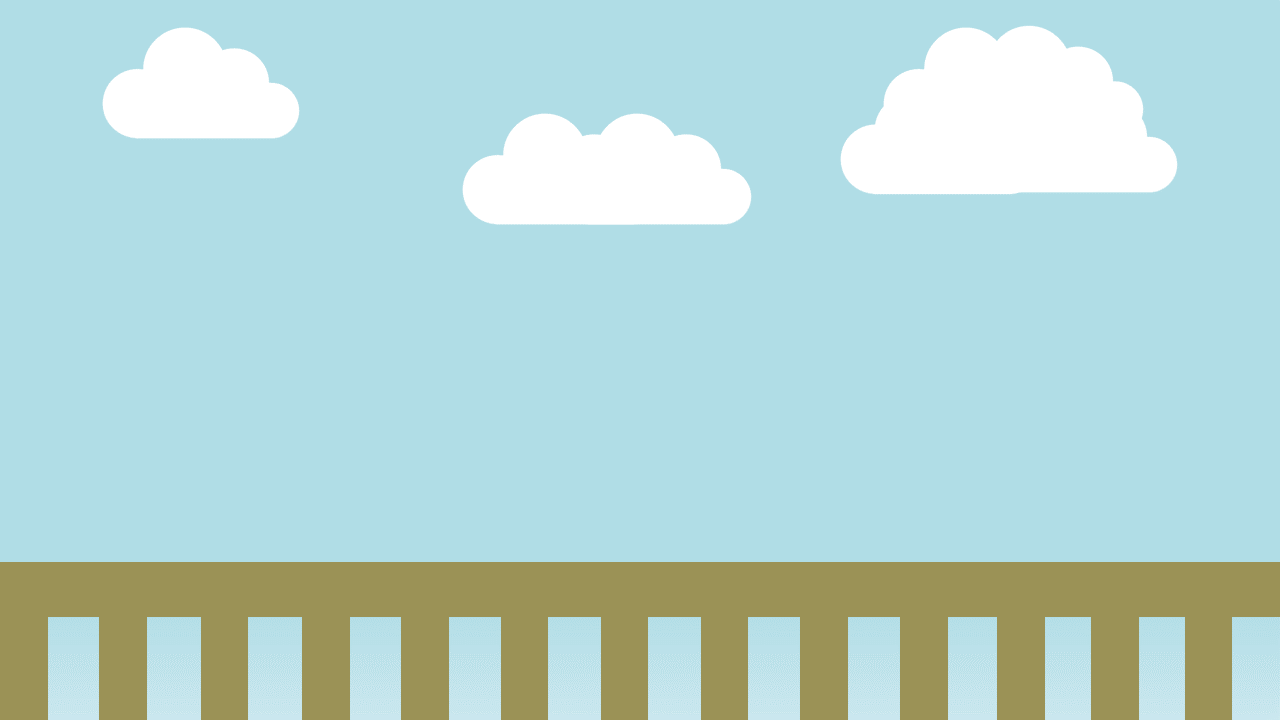
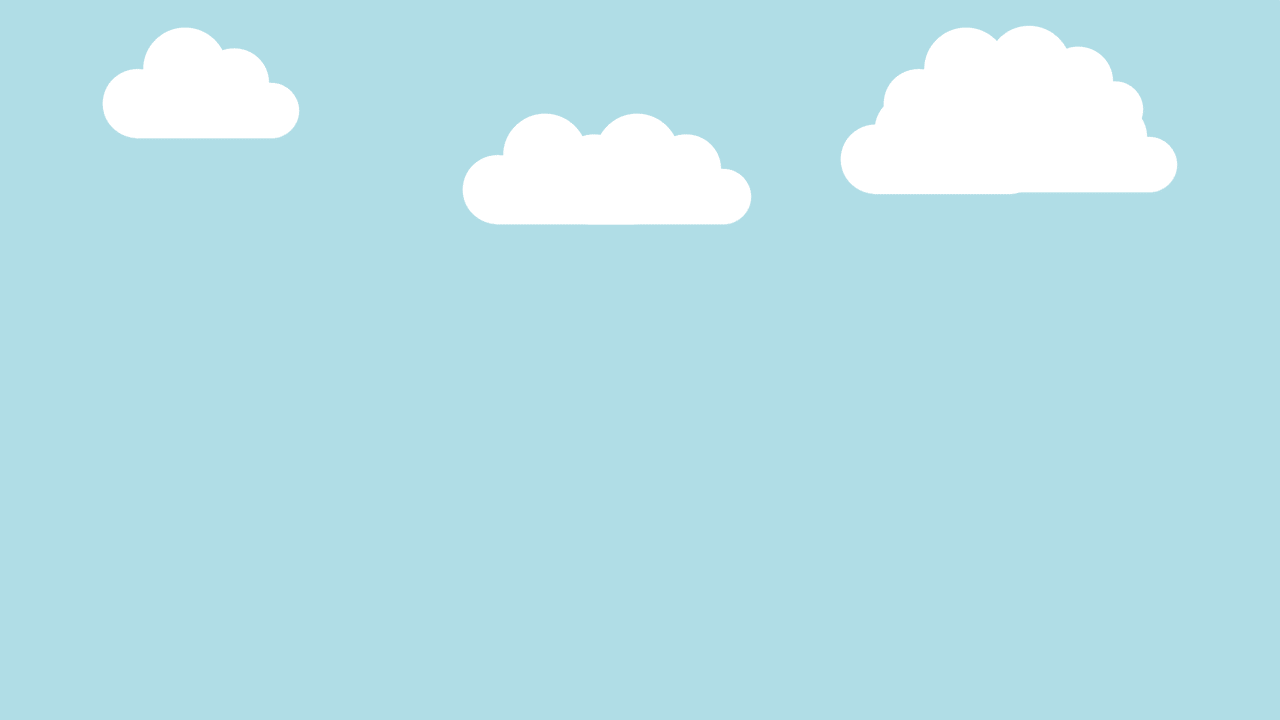
追加

Changed region(s): [[0.0, 0.7639, 1.0, 1.0]]

diff --git a/gametitle.py b/gametitle.py
@@ -9,16 +9,19 @@ WIDTH = 1600
 HEIGHT = 900
 
 
-class Player(pg.sprite.Sprite):
+class Player:
     """
     操作キャラクターに関するクラス
     """
     
     def __init__(self):
-        super().__init__()
         self.imgs = [pg.transform.rotozoom(pg.image.load(f"ex05/fig/run{i}.png"), 0, 0.4) for i in range(1, 3)]
         self.num = 1
-        self.image = self.imgs[self.num]
+        self.img = self.imgs[self.num]
+        width = self.img.get_width()
+        height = self.img.get_height()
+        self.image = pg.Surface((width*3/4, height))
+        pg.Surface.fill(self.image, (100, 100, 100))
         self.rect = self.image.get_rect()
         self.rect.bottom = HEIGHT - 185
         self.rect.centerx = WIDTH/2
@@ -27,7 +30,7 @@ class Player(pg.sprite.Sprite):
         self.jump = False
         self.jump_tmr = 0
     
-    def update(self, screen: pg.Surface, num=0):
+    def update(self, screen: pg.Surface):
         if self.jump:
             if self.jump_tmr < 20: 
                 self.rect.move_ip(0, -15)
@@ -37,14 +40,14 @@ class Player(pg.sprite.Sprite):
             if self.jump_tmr >= 40:
                 self.jump = False
                 self.jump_tmr = 0
-            screen.blit(self.image, self.rect)
+            screen.blit(self.img, self.rect)
                 
         else:
             self.tmr += 1
             if self.tmr % 5 == 0:
                 self.num_r += 1
-                self.image = self.imgs[self.num_r%2]
-            screen.blit(self.image, self.rect)
+                self.img = self.imgs[self.num_r%2]
+            screen.blit(self.img, self.rect)
 
 
 class Object(pg.sprite.Sprite):
@@ -52,10 +55,10 @@ class Object(pg.sprite.Sprite):
     障害物に関するクラス
     """
     
-    def __init__(self, player: pg.Surface):
+    def __init__(self):
         super().__init__()
         self.image = pg.Surface((50, 100))
-        pg.draw.rect(self.image, (0, 0, 0), pg.Rect(0, 0, 50, 100))
+        self.image.fill((0, 0, 0))
         self.rect = self.image.get_rect()
         self.rect.bottom = HEIGHT - 194
         self.rect.left = WIDTH
@@ -63,31 +66,62 @@ class Object(pg.sprite.Sprite):
     def update(self, screen: pg.Surface):
         self.rect.move_ip(-10, 0)
         screen.blit(self.image, self.rect)
+        if self.rect.right < 0:
+            self.kill()
+
+
+class Time:
+    """
+    経過時間を表示するクラス
+    """
+    def __init__(self):
+        self.time = 0
+    
+    def update(self, screen: pg.Surface, tmr: int):
+        self.time = tmr // 50
+        fonto = pg.font.Font(None, 100)
+        if self.time % 10 == 0 and self.time != 0:
+            txt = fonto.render(f"{self.time}", True, (191, 181, 73)) 
+        else:           
+            txt = fonto.render(f"{self.time}", True, (191, 73, 83))
+        screen.blit(txt, [100, 100])
+
 
 
 def main():
     clock = pg.time.Clock()
     pg.display.set_caption("Run on Fence")
     screen = pg.display.set_mode((WIDTH, HEIGHT))
-    bg = pg.transform.rotozoom(pg.image.load("ex05/fig/background.png"), 0, 1.25)
+    bgs = [pg.transform.rotozoom(pg.image.load("ex05/fig/background.png"), 0, 1.25) for i in range(3)]
+    fences = [pg.transform.rotozoom(pg.image.load("ex05/fig/fence.png"), 0, 1.25) for i in range(3)]
+    fence_rect = fences[0].get_rect()
+    tmr = 0
     
     objs = pg.sprite.Group()
     player = Player()
-    
-    tmr = 0
+    timer = Time()
     
     while True:
+        bg_x = tmr % 3200
+        fence_x = (tmr % 160) * 10
+        
         for event in pg.event.get():
             if event.type == pg.QUIT:
                 return
             if event.type == pg.KEYDOWN:
                 if event.key == pg.K_SPACE:
                     player.jump = True
-
-        screen.blit(bg, [0, 0])
         
-        if tmr % 250 == 0:
-            objs.add(Object(player))
+        for i in range(len(bgs)):
+            screen.blit(bgs[i], [WIDTH*i-bg_x, 0])
+        for i in range(len(fences)):
+            screen.blit(fences[i], [WIDTH*i-fence_x, HEIGHT-fence_rect.height])
+        
+        if tmr % 150 == 0:
+            n = tmr
+            r = random.randint(0, 100)
+        if tmr - n  == r:
+            objs.add(Object())
         
         for obj in objs:
             obj.update(screen)
@@ -97,6 +131,7 @@ def main():
             return
 
         player.update(screen)
+        timer.update(screen, tmr)
         pg.display.update()
         tmr += 1
         clock.tick(50)

diff --git a/README.md b/README.md
@@ -1,0 +1,22 @@
+# Run on fence
+
+## 実行環境の必要条件
+* Python >= 3.10.9
+* pygame >= 2.1.2
+
+## ゲームの概要
+主人公キャラクターを方向キー操作により障害物を避けるゲームで，様々な能力を駆使してなるべく多くの距離を走るゲーム
+
+## ゲームの実装
+### 共通基本機能
+* 主人公キャラクターに関するクラス(Playerクラス)
+* 障害物に関するクラス(Objクラス)
+
+### 担当追加機能
+* 経過時間を表示するクラス(Timeクラス)
+* 障害物をランダムな間隔で生成する
+
+### ToDo
+
+
+## メモ
